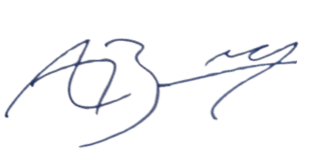
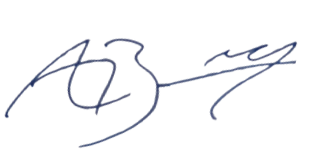
content: refresh 03 Mar 2026 mobile update and signature asset

diff --git a/public/updates/First-Gear-Update-03March2026.html b/public/updates/First-Gear-Update-03March2026.html
@@ -4,179 +4,167 @@
     <meta charset="UTF-8" />
     <meta name="viewport" content="width=device-width, initial-scale=1.0" />
     <meta name="robots" content="noindex, nofollow" />
-    <title>Evolution Stables Desktop Preview</title>
+    <title>Evolution Stables Investor Email</title>
     <link rel="preconnect" href="https://fonts.googleapis.com" />
     <link rel="preconnect" href="https://fonts.gstatic.com" crossorigin />
-    <link href="https://fonts.googleapis.com/css2?family=Playfair+Display:ital,wght@0,300;0,400;0,600;1,400&family=Inter:wght@300;400;500;600;700;800&display=swap" rel="stylesheet" />
+    <link href="https://fonts.googleapis.com/css2?family=Playfair+Display:ital,wght@0,300;0,400;0,600;1,400&family=Inter:wght@300;400;500;600;800&display=swap" rel="stylesheet" />
     <style>
       * { margin: 0; padding: 0; box-sizing: border-box; }
-html, body { width: 100%; }
+html, body { overflow-x: hidden; width: 100%; }
 body {
   background: #ffffff;
-  color: #1a1a1a;
+  color: #000000;
   font-family: 'Inter', Arial, Helvetica, sans-serif;
   margin: 0;
-  padding: 16px;
-}
-.desktop-page {
-  max-width: 900px;
+  padding: 0;
+  width: 430px;
   min-height: 1122px;
-  margin: 0 auto;
+}
+img, iframe, video { max-width: 100%; }
+.page-container {
+  width: 100%;
+  min-height: 1122px;
+  padding: 24px;
+  display: flex;
+  flex-direction: column;
+}
+header {
+  width: 100%;
+  max-width: 430px;
   background: #ffffff;
+  padding: 8px 0 12px 0;
+  border-bottom: 1px solid #000000;
   display: flex;
-  flex-direction: column;
+  justify-content: flex-start;
 }
-.desktop-header {
-  display: flex;
-  align-items: flex-end;
-  justify-content: space-between;
-  gap: 16px;
-  padding: 26px 20px 20px;
-  border-bottom: 1px solid #262626;
+.mobile-signature-wrap {
+  margin-top: 8px;
+  margin-bottom: 20px;
 }
-.desktop-header-left {
-  min-width: 220px;
-}
-.desktop-brand-row {
-  display: inline-flex;
-  align-items: center;
-  gap: 8px;
-}
-.desktop-brand-row svg {
-  width: 28px;
-  height: 24px;
-  fill: #111111;
-  flex-shrink: 0;
-}
-.desktop-brand-text {
-  font-family: 'Inter', Arial, Helvetica, sans-serif;
-  font-size: 15px;
-  font-weight: 700;
-  line-height: 0.85;
-  letter-spacing: 0.35px;
-  color: #111111;
-}
-.desktop-template-type {
-  margin-top: 7px;
-  font-family: 'Inter', Arial, Helvetica, sans-serif;
-  font-size: 11px;
-  font-weight: 600;
-  text-transform: uppercase;
-  letter-spacing: 4px;
-  color: #5f646a;
-}
-.desktop-headline {
-  font-family: 'Playfair Display', Georgia, serif;
-  font-size: 52px;
-  line-height: 1;
-  font-weight: 400;
-  color: #121212;
-  text-align: right;
-  letter-spacing: -0.4px;
-}
-.desktop-main {
-  flex: 1;
-  padding: 20px 20px 24px;
-}
-.desktop-columns {
-  display: flex;
-  align-items: stretch;
-  justify-content: space-between;
-  gap: 30px;
-  margin-bottom: 18px;
-}
-.desktop-text-column {
-  width: 50%;
-}
-.desktop-summary-column {
-  width: 33.3333%;
-  display: flex;
-  align-items: center;
-}
-.desktop-summary-stack {
-  width: 100%;
-  display: flex;
-  flex-direction: column;
-  gap: 14px;
-  transform: translateY(-16px);
-}
-.desktop-summary-box {
-  background: #f1f1f1;
-  border-radius: 8px;
-  padding: 20px 16px;
-  font-family: 'Inter', Arial, Helvetica, sans-serif;
-  font-size: 15px;
-  font-weight: 400;
-  line-height: 1.5;
-  color: #1a1a1a;
-}
-.desktop-summary-box p {
-  margin: 0 0 10px 0;
-}
-.desktop-summary-box p:last-child {
-  margin-bottom: 0;
-}
-.desktop-summary-item {
-  margin: 0 0 14px 0;
-}
-.desktop-summary-item:last-child {
-  margin-bottom: 0;
-}
-.desktop-summary-box .desktop-summary-label {
-  margin: 0 0 4px 0;
-  font-size: 15px;
-  line-height: 1.4;
-  color: #1a1a1a;
-}
-.desktop-summary-box .desktop-summary-value {
-  margin: 0;
-  font-size: 15px;
-  line-height: 1.4;
-  color: #1a1a1a;
-}
-.desktop-full-width {
-  width: 100%;
-  margin-bottom: 16px;
-}
-.desktop-content {
-  font-family: 'Inter', Arial, Helvetica, sans-serif;
-  font-size: 15px;
-  font-weight: 400;
-  line-height: 1.5;
-  color: #1a1a1a;
-  margin-bottom: 14px;
-  text-align: justify;
-}
-.desktop-content:last-child {
-  margin-bottom: 0;
-}
-.desktop-content p {
-  margin: 0;
-}
-.desktop-section {
-  margin: 16px 0 8px;
-  font-family: 'Inter', Arial, Helvetica, sans-serif;
-  font-size: 15px;
-  line-height: 1.35;
-  font-weight: 700;
-  color: #111111;
-}
-.desktop-divider {
-  border: 0;
-  border-top: 1px solid #cccccc;
-  margin: 16px 0;
-}
-.desktop-signature-wrap {
-  margin-top: 12px;
-  margin-bottom: 8px;
-}
-.desktop-signature-image {
-  width: 200px;
+.mobile-signature-image {
+  width: 180px;
   max-width: 100%;
   height: auto;
   display: block;
 }
-.desktop-note {
+.header-content {
+  display: flex;
+  flex-direction: column;
+  align-items: flex-start;
+  text-align: left;
+  gap: 4px;
+}
+.brand-mark {
+  display: inline-flex;
+  align-items: center;
+  gap: 10px;
+}
+.brand-mark svg {
+  width: 28px;
+  height: 24px;
+  fill: #000000;
+  flex-shrink: 0;
+}
+.brand-text {
+  font-family: 'Playfair Display', Georgia, serif;
+  font-size: 16px;
+  letter-spacing: 0.2px;
+  color: #000000;
+}
+.template-type {
+  font-family: 'Inter', Arial, Helvetica, sans-serif;
+  font-size: 10px;
+  font-weight: 600;
+  letter-spacing: 3px;
+  text-transform: uppercase;
+  color: #666666;
+}
+main {
+  flex: 1;
+  display: flex;
+  flex-direction: column;
+  margin-top: 24px;
+}
+.content-layout {
+  display: flex;
+  flex-direction: column;
+}
+.headline {
+  font-family: 'Playfair Display', Georgia, serif;
+  font-size: 44px;
+  font-weight: 400;
+  line-height: 1.1;
+  margin-bottom: 20px;
+  color: #000000;
+  letter-spacing: -0.5px;
+}
+.subheadline {
+  font-family: 'Inter', Arial, Helvetica, sans-serif;
+  font-size: 20px;
+  font-weight: 500;
+  line-height: 1.5;
+  color: #222222;
+  margin-bottom: 24px;
+  text-align: justify;
+  hyphens: none;
+}
+.paragraph-title {
+  font-family: 'Inter', Arial, Helvetica, sans-serif;
+  font-size: 18px;
+  font-weight: 700;
+  line-height: 1.35;
+  color: #111111;
+  margin: 16px 0 8px;
+}
+.content {
+  font-family: 'Inter', Arial, Helvetica, sans-serif;
+  font-size: 15px;
+  line-height: 1.7;
+  color: #1a1a1a;
+  margin-bottom: 16px;
+  text-align: justify;
+}
+.content p { margin: 0; }
+.content-first p:first-of-type::first-letter {
+  font-family: 'Playfair Display', Georgia, serif;
+  font-size: 3.8em;
+  font-weight: 300;
+  float: left;
+  line-height: 0.8;
+  margin-right: 8px;
+  margin-top: 4px;
+}
+.mobile-closing {
+  margin-top: 6px;
+}
+.bullet-highlight {
+  background: #000000;
+  color: #ffffff;
+  padding: 28px 24px;
+  border-left: 3px solid #d4a964;
+  margin: 24px 0;
+}
+.bullet-list {
+  font-family: 'Inter', Arial, Helvetica, sans-serif;
+  font-size: 20px;
+  font-weight: 500;
+  line-height: 1.5;
+  color: #ffffff;
+  list-style: disc;
+  margin: 0;
+  padding-left: 22px;
+  text-align: left;
+}
+.bullet-list li { margin-bottom: 10px; }
+.bullet-list li:last-child { margin-bottom: 0; }
+.bullet-list li::marker { color: #ffffff; }
+.editorial-divider {
+  border: 0;
+  border-top: 1px solid #d4a964;
+  margin: 20px 0;
+}
+.empty-note {
+  margin-top: 12px;
   font-family: 'Inter', Arial, Helvetica, sans-serif;
   font-size: 13px;
   color: #666666;
@@ -186,7 +174,7 @@ footer {
   background: #000000;
   color: #ffffff;
   padding: 56px 24px 60px;
-  margin-top: 32px;
+  margin-top: 72px;
   display: flex;
   flex-direction: column;
   gap: 26px;
@@ -217,22 +205,20 @@ footer {
     </style>
   </head>
   <body>
-    <div class="desktop-page">
-      <header class="desktop-header">
-        <div class="desktop-header-left">
-          <div class="desktop-brand-row">
-            <svg viewBox="0 0 107.78 94.41" aria-hidden="true"><path d="M85.38,15.12c-1.96-2.03-4.1-3.89-6.38-5.55h0c-.87-.64-1.83-1.28-2.91-1.96h0C68.13,2.63,58.94,0,49.51,0,22.21,0,0,21.82,0,48.64c0,19.79,12.04,37.46,30.68,44.99,0,0,1.47,.59,2.37,.78l14.15-24.51,19.8,17.29L107.78,15.12h-22.4Zm-7.62,29.2l-13.67,24.16-11.69-9.3,5.72-10.28,2.43,1.12c-2.25-3.1-4.71-9.52-4.73-13.31l-25.3,43.82c-11.55-6.55-18.77-18.59-18.77-31.9-.01-20.33,16.93-36.89,37.76-36.89,7.23,0,14.26,2.01,20.34,5.82,.85,.53,1.58,1.02,2.23,1.5h0c2.31,1.68,4.42,3.63,6.28,5.78l1.76,2.03h14.26l-12.13,9.55-4.48,7.92v-.02Z"/></svg>
-            <div class="desktop-brand-text">EVOLUTION<br />STABLES</div>
-          </div>
-          <div class="desktop-template-type">Investor Update</div>
+    <div class="page-container">
+      <header>
+  <div class="header-content">
+    <div class="brand-mark">
+      <svg viewBox="0 0 107.78 94.41" aria-hidden="true"><path d="M85.38,15.12c-1.96-2.03-4.1-3.89-6.38-5.55h0c-.87-.64-1.83-1.28-2.91-1.96h0C68.13,2.63,58.94,0,49.51,0,22.21,0,0,21.82,0,48.64c0,19.79,12.04,37.46,30.68,44.99,0,0,1.47,.59,2.37,.78l14.15-24.51,19.8,17.29L107.78,15.12h-22.4Zm-7.62,29.2l-13.67,24.16-11.69-9.3,5.72-10.28,2.43,1.12c-2.25-3.1-4.71-9.52-4.73-13.31l-25.3,43.82c-11.55-6.55-18.77-18.59-18.77-31.9-.01-20.33,16.93-36.89,37.76-36.89,7.23,0,14.26,2.01,20.34,5.82,.85,.53,1.58,1.02,2.23,1.5h0c2.31,1.68,4.42,3.63,6.28,5.78l1.76,2.03h14.26l-12.13,9.55-4.48,7.92v-.02Z"/></svg>
+      <span class="brand-text">Evolution Stables</span>
+    </div>
+    <div class="template-type">Investor Update</div>
+  </div>
+</header>
+      <main>
+        <div class="content-layout">
+          <h1 class="headline">First Gear</h1><div class="content content-first"><p>Hi team,<br /><br />With First Gear now being retired, this triggers the relevant clause in the syndicate agreement regarding the early conclusion of the lease. Most of you will likely already be aware of this, but I just wanted to outline the next steps.</p></div><h2 class="paragraph-title">Lease Balance Return</h2><div class="content"><p>In terms of the remaining balance of the 12-month lease, it is currently estimated that approximately five months will be returned to investors. This is an estimate because there is typically a 4–6 week lag in trainer billing, and as First Gear’s campaign is now being wound up, the final statement has not yet been received. Once it is, the exact amount will be confirmed</p></div><h2 class="paragraph-title">Distribution via Tokinvest</h2><div class="content"><p>Once the final balance is confirmed and passed to Tokinvest, the remaining funds will be deposited into the wallet attached to your Tokinvest account. From there, you will be able to withdraw the funds or reinvest into other offerings on the platform. I will provide further guidance on the withdrawal process closer to the time.</p></div><div class="content"><p>I will keep everyone updated as soon as the final trainer statement is received and the exact balance can be confirmed.<br /><br />Thanks again for your support throughout First Gear’s campaign. It was an emotional rollercoaster, and sadly potential doesn’t guarantee performance.</p></div><div class="mobile-signature-wrap"><img class="mobile-signature-image" src="/assets/signiture.png" alt="Signature" /></div><div class="bullet-highlight"><ul class="bullet-list"><li>Status: Horse retired</li><li>Return: ~5 months</li><li>Distribution: via Tokinvest wallet</li><li>Next update: Once official conformation from trainer received</li></ul></div>
         </div>
-        <h1 class="desktop-headline">First Gear</h1>
-      </header>
-      <main class="desktop-main">
-        <section class="desktop-full-width"><div class="desktop-content"><p>Hi team,<br /><br />With First Gear now being retired, this triggers the relevant clause in the syndicate agreement regarding the early conclusion of the lease. Most of you will likely already be aware of this, but I just wanted to outline the next steps.</p></div></section><section class="desktop-columns">
-      <div class="desktop-text-column"><h2 class="desktop-section">Lease Balance Return</h2><div class="desktop-content"><p>In terms of the remaining balance of the 12-month lease, it is currently estimated that approximately five months will be returned to investors. This is an estimate because there is typically a 4–6 week lag in trainer billing, and as First Gear’s campaign is now being wound up, the final statement has not yet been received. Once it is, the exact amount will be confirmed</p></div><h2 class="desktop-section">Distribution via Tokinvest</h2><div class="desktop-content"><p>Once the final balance is confirmed and passed to Tokinvest, the remaining funds will be deposited into the wallet attached to your Tokinvest account. From there, you will be able to withdraw the funds or reinvest into other offerings on the platform. I will provide further guidance on the withdrawal process closer to the time.</p></div></div>
-      <aside class="desktop-summary-column"><div class="desktop-summary-stack"><div class="desktop-summary-box"><div class="desktop-summary-item"><p class="desktop-summary-label"><strong>Status:</strong></p><p class="desktop-summary-value">Horse retired</p></div><div class="desktop-summary-item"><p class="desktop-summary-label"><strong>Return:</strong></p><p class="desktop-summary-value">~5 months</p></div><div class="desktop-summary-item"><p class="desktop-summary-label"><strong>Distribution:</strong></p><p class="desktop-summary-value">via Tokinvest wallet</p></div><div class="desktop-summary-item"><p class="desktop-summary-label"><strong>Next update:</strong></p><p class="desktop-summary-value">Once official conformation from trainer received</p></div></div></div></aside>
-    </section><section class="desktop-full-width"><div class="desktop-content"><p>I will keep everyone updated as soon as the final trainer statement is received and the exact balance can be confirmed.<br /><br />Thanks again for your support throughout First Gear’s campaign. It was an emotional rollercoaster, and sadly potential doesn’t guarantee performance.</p></div></section><section class="desktop-full-width"><div class="desktop-signature-wrap"><img class="desktop-signature-image" src="/updates/Signiture.png" alt="Signature" /></div></section>
       </main>
       <footer>
   <div class="footer-hero">
